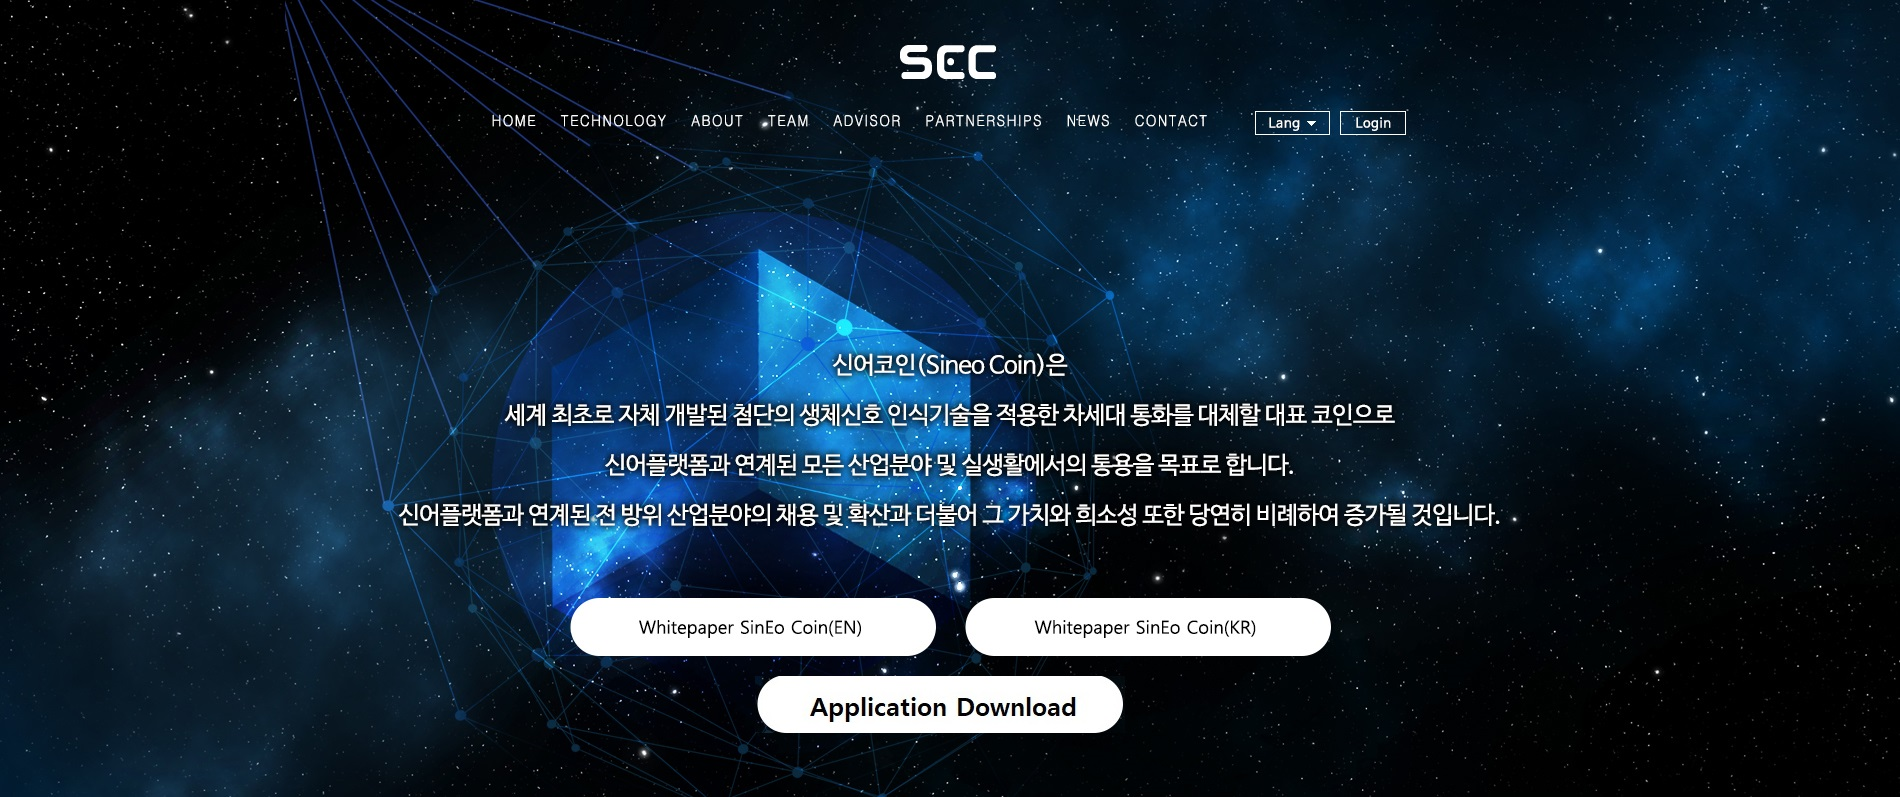
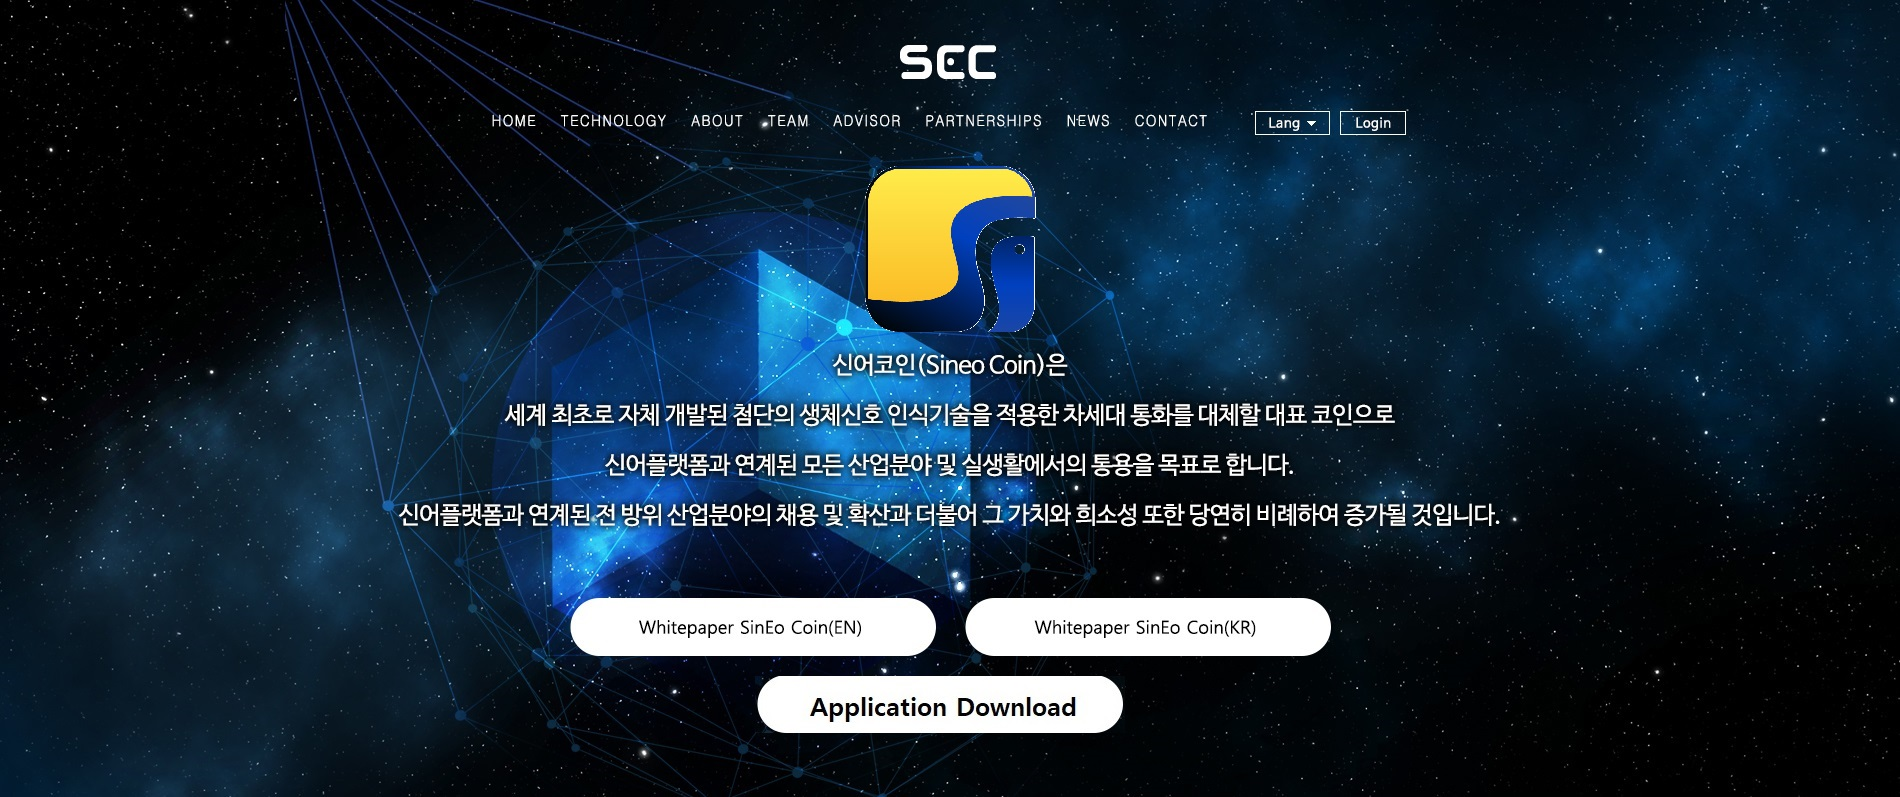
change

Changed region(s): [[0.4347, 0.1807, 0.5589, 0.4216]]

diff --git a/index.html b/index.html
@@ -22,7 +22,7 @@
 </style>
 <body cellpadding="0" cellspacing="0" padding="0" width="100%">
 
-<img id="page1" src="Page1.jpg" cellpadding="0" cellspacing="0"></img>
+<img id="page1" src="Page1_1.jpg" cellpadding="0" cellspacing="0"></img>
 <img id="page2" src="Page2.jpg" cellpadding="0" cellspacing="0"></img>
 <img id="page3" src="Page3.jpg" cellpadding="0" cellspacing="0"></img>
 <img id="page4" src="Page4.jpg" cellpadding="0" cellspacing="0"></img>
